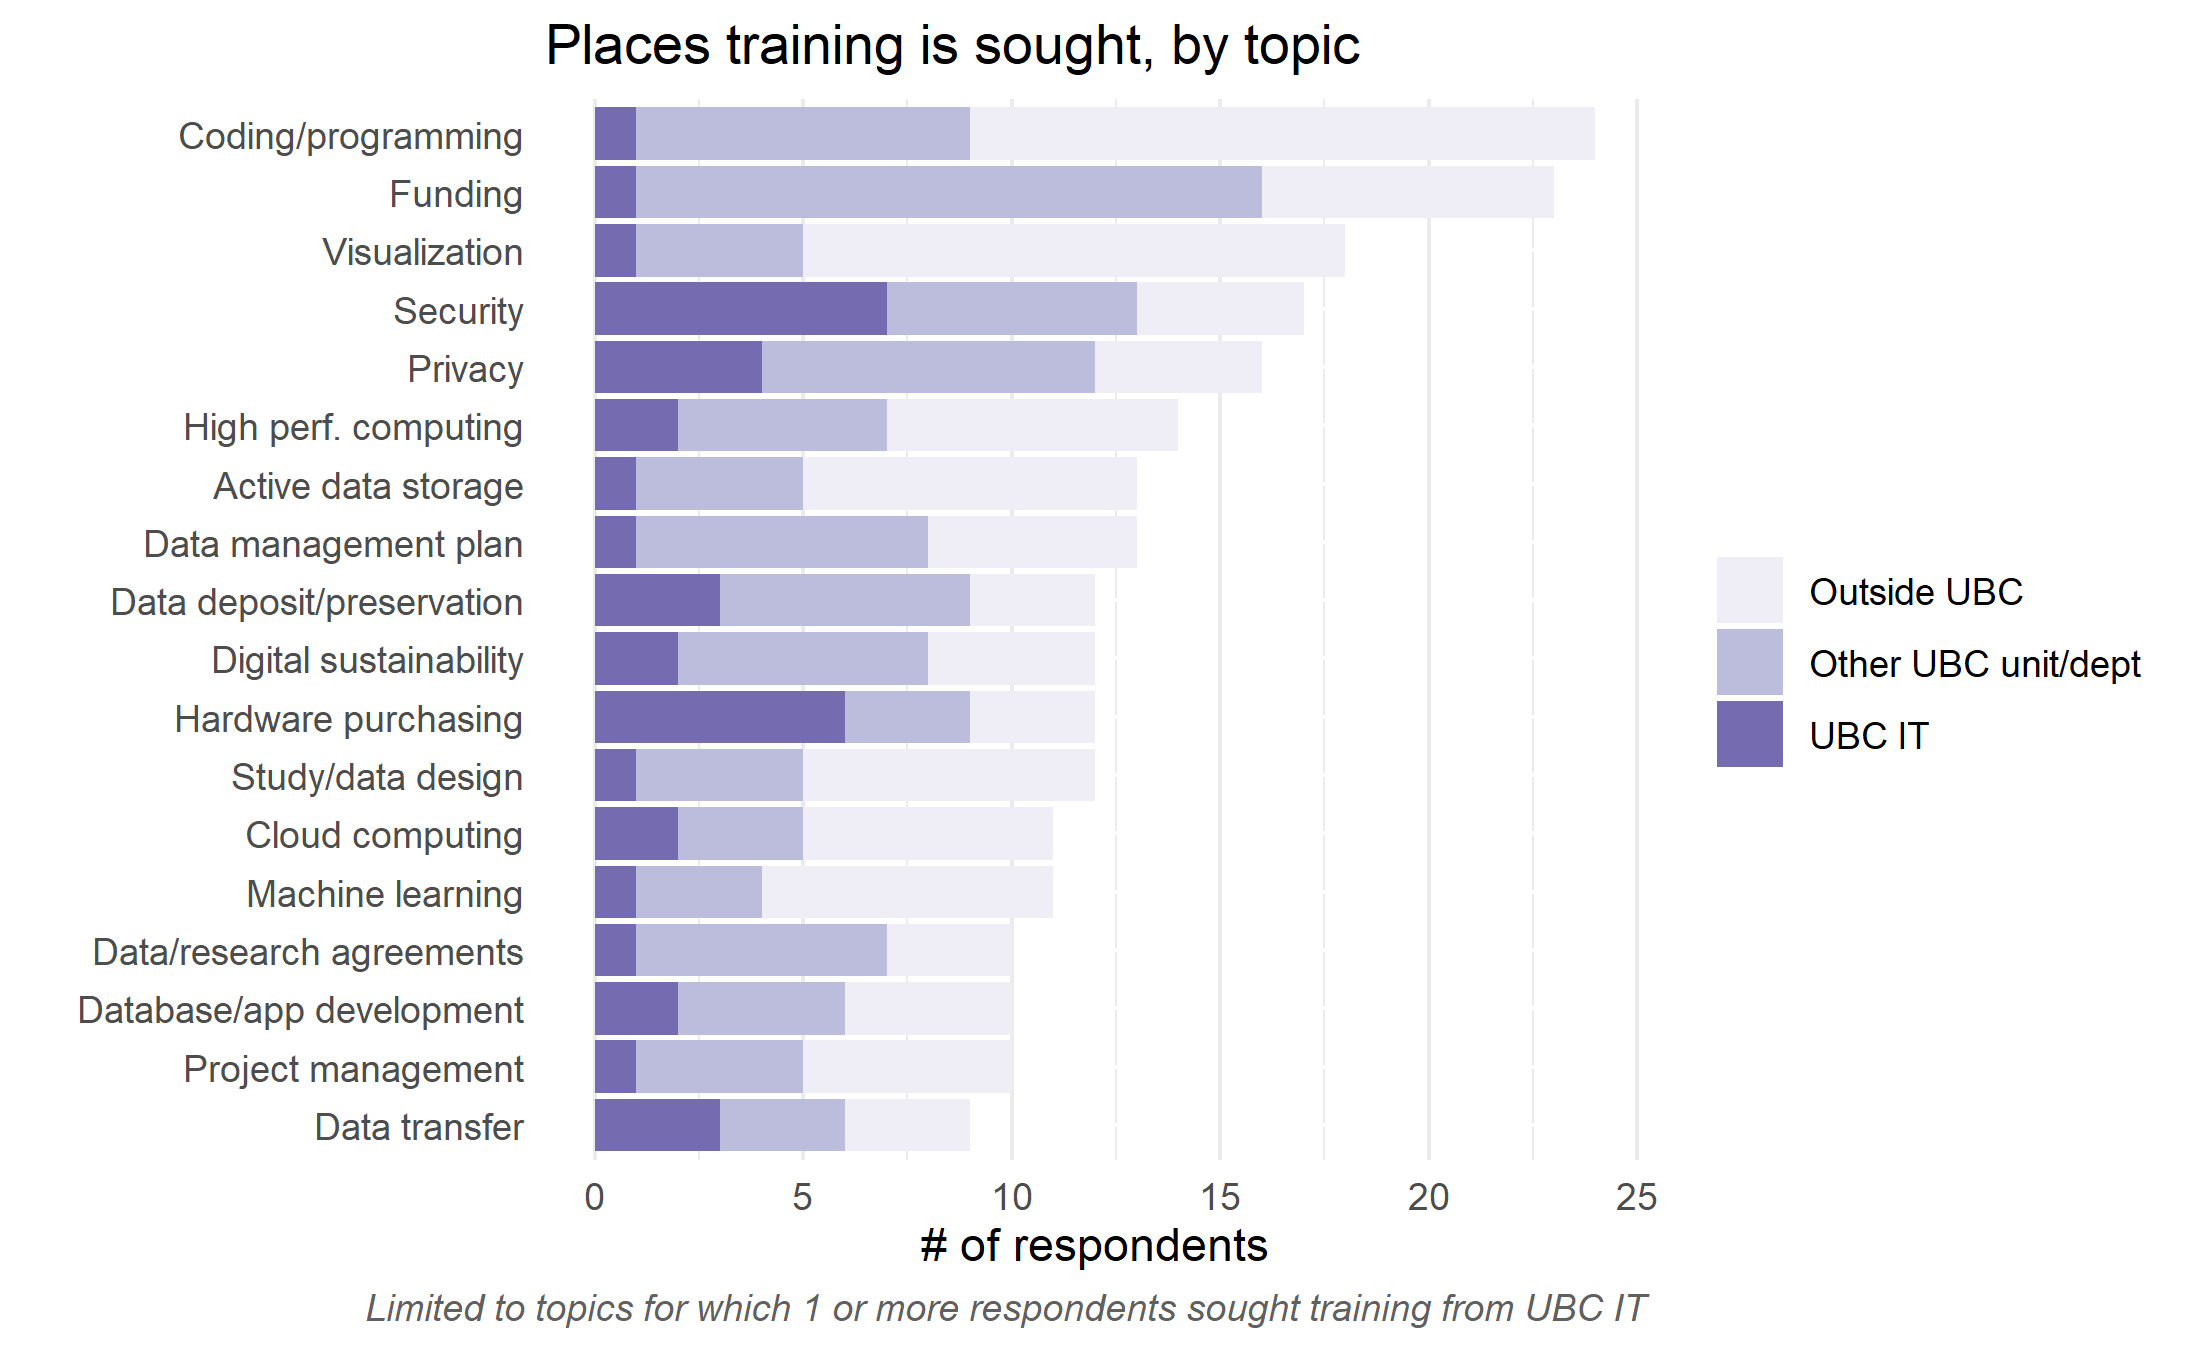
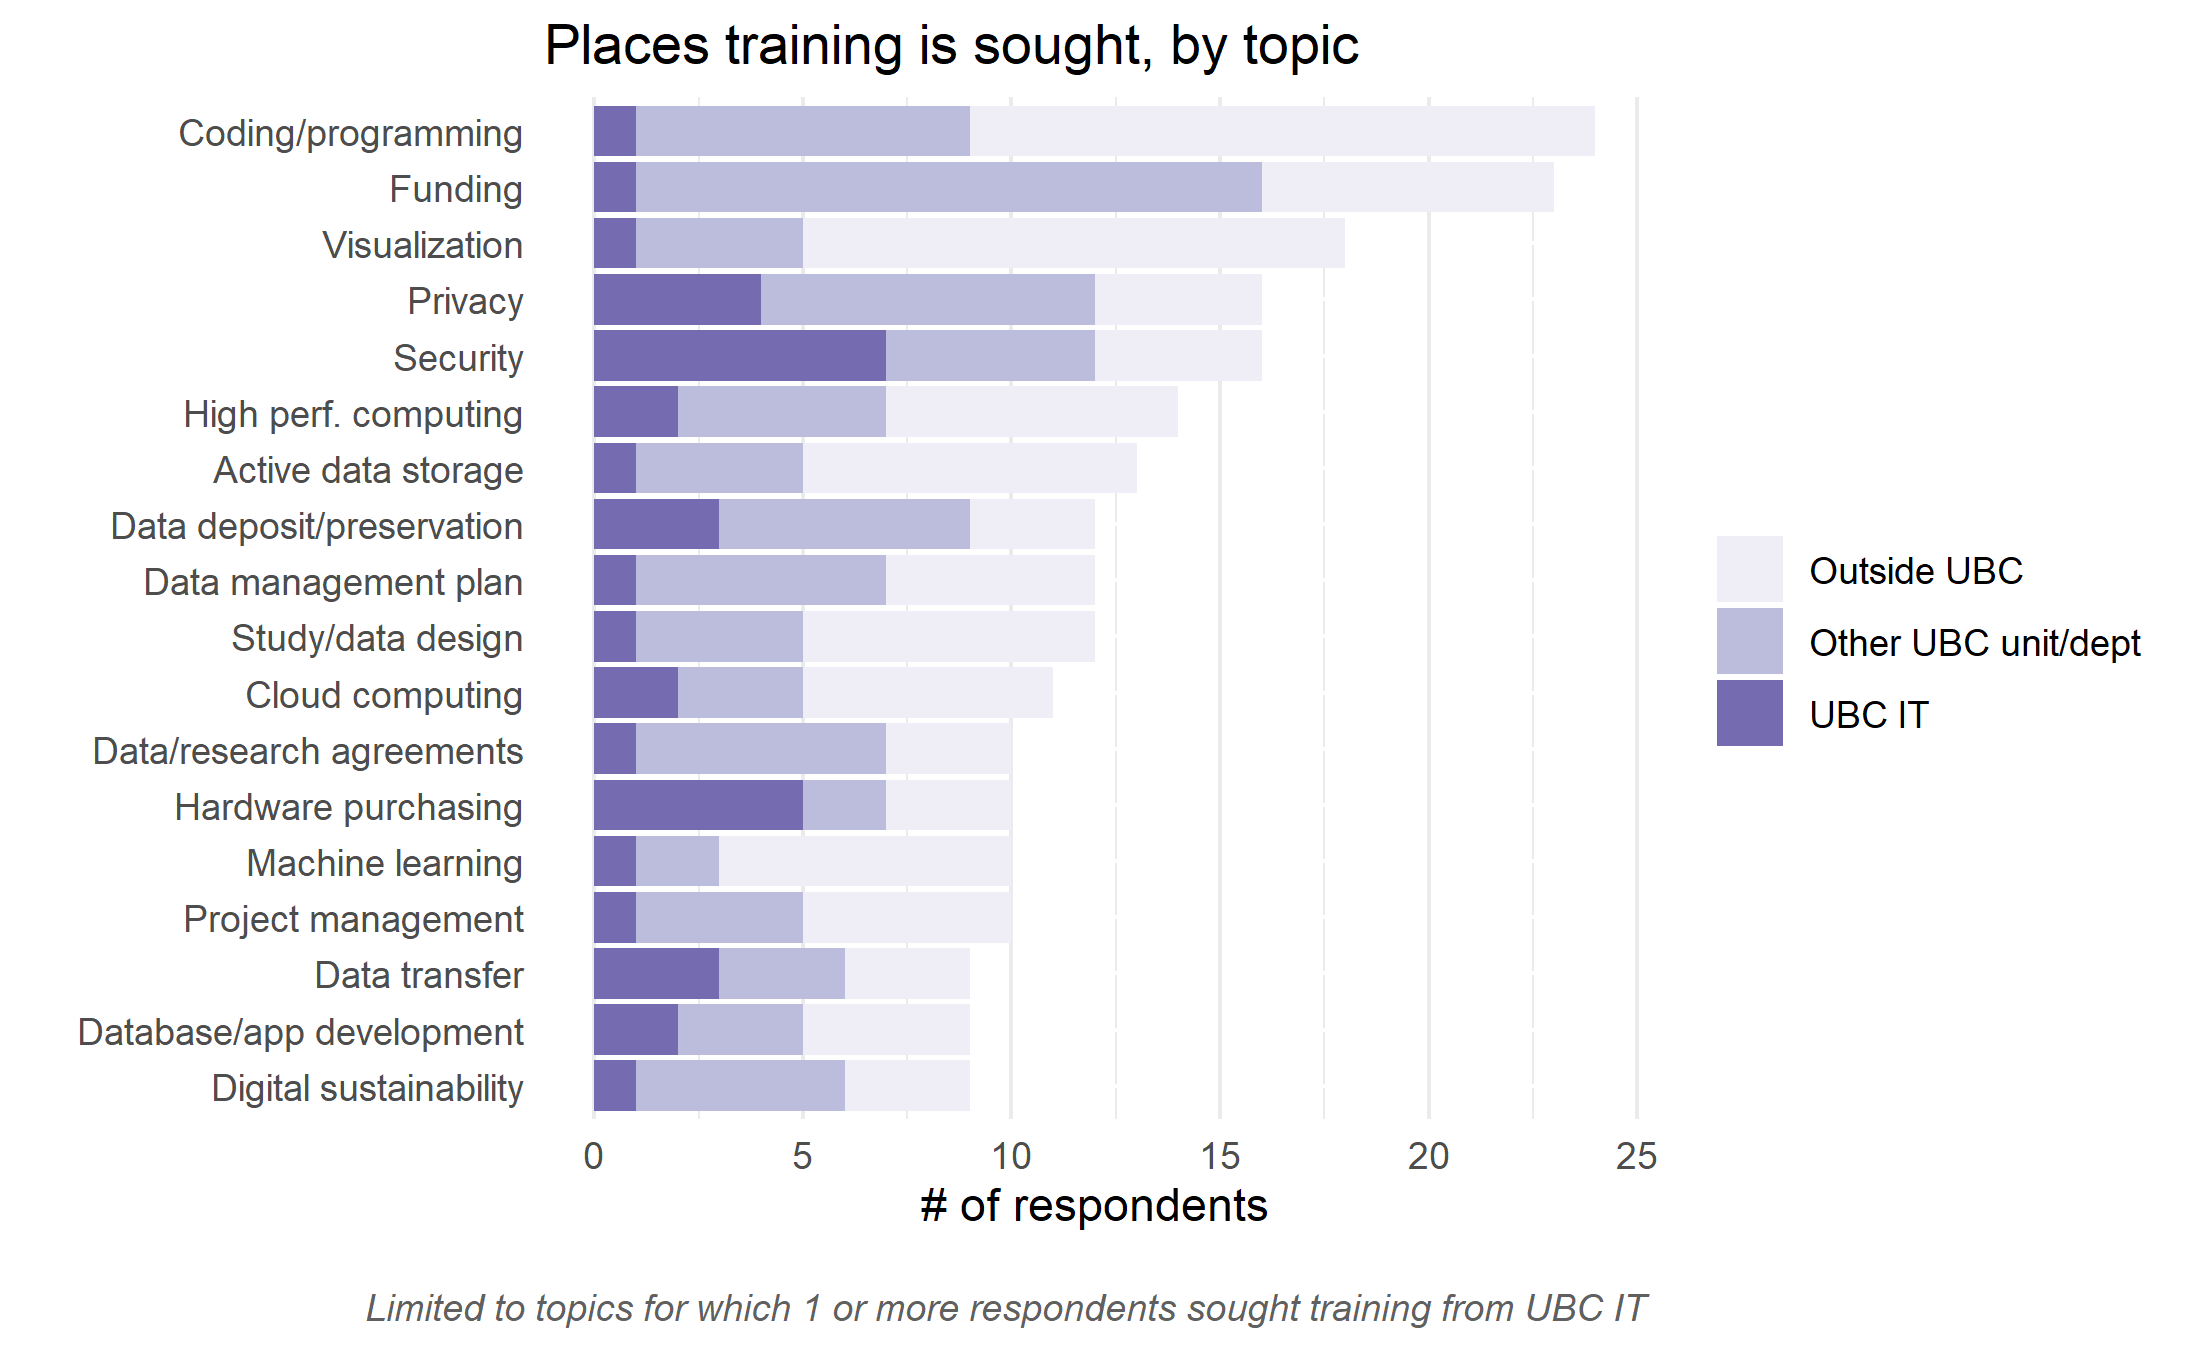
updated graphs

diff --git a/index.md b/index.md
@@ -23,17 +23,14 @@ To investigate these needs, the DRI Needs Assessment Survey ran from May 17th - 
 
 A significant portion of the respondents who self identified as needing or wanting additional support or training were unaware of many of the training and support opportunities available to them and their research teams at UBC. Additionally, for those who sought additional support and training from within UBC, many turned to a mix of units and departments, including the Library, ARC, ORS, CIO, and UBC IT. Participants in focus groups noted that finding the right service is challenging, and a centralized portal would be beneficial.
 
-<div class="figure">Fig 1. Need for support</div>
-![Overall need for support](graphs/overall_support.png)
+<div class="figure"><img alt="Need for support/training" src="graphs/overall_support-training.png">
+</div>
 
-<div class="figure">Fig 2. Places support is sought</div>
-![Overall places support is sought](graphs/overall_supportWhere.png)
+<div class="figure"><img alt="Places support/training is sought" src="graphs/overall_where_support-training.png">
+</div>
 
-<div class="figure">Fig 3. Need for training</div>
-![Overall need for training](graphs/overall_training.png)
-
-<div class="figure">Fig 4. Places training is sought</div>
-![Overall places training is sought](graphs/overall_trainingWhere.png)
+<div class="figure"><img alt="Number of places support/training is sought" src="graphs/overall_number_of_places_support-training.png">
+</div>
 
 ## Recommendations
 
